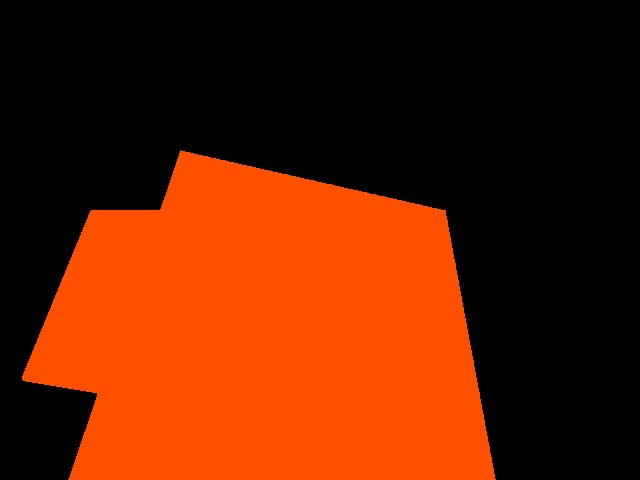
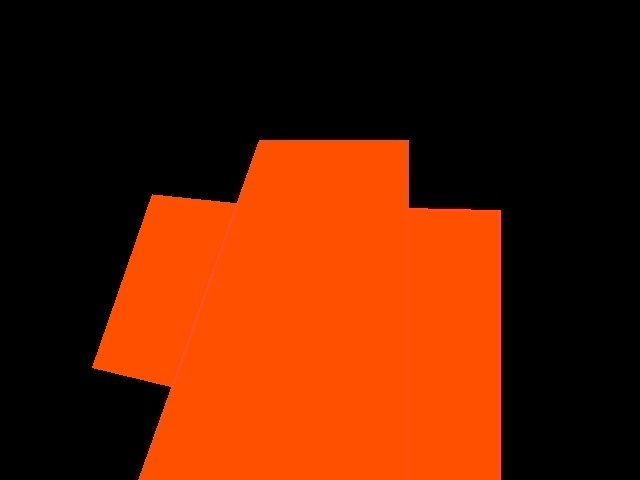
修改mask

Changed region(s): [[0.0312, 0.2812, 0.8125, 1.0]]

diff --git a/utils/create_mask.py b/utils/create_mask.py
@@ -40,6 +40,7 @@ def create_mask(orig_img, lines):
             if x_(y, left[0], left[1]) <= x <= x_(y, right[0], right[1]) and \
                     y_(x, top[0], top[1]) <= y <= y_(x, bottom[0], bottom[1]):
                 mask[y, x, 2] = 255
+                mask[y, x, 1] = 80
     return mask
 
 
@@ -54,6 +55,7 @@ def add_mask(orig_mask, lines):
             if x_(y, left[0], left[1]) <= x <= 500 and \
                     y_(x, top[0], top[1]) <= y <= y_(x, bottom[0], bottom[1]):
                 mask[y, x, 2] = 255
+                mask[y, x, 1] = 80
     return mask
 
 
@@ -65,12 +67,12 @@ def main():
     # bottom = line_params((0, 479), (495, 479))
 
     # sawanini_1
-    orig_img = '../images/records/vlcsnap-2019-09-03-09h50m25s077.png'
-    left = line_params((40, 390), (50, 480))
-    top = line_params((40, 390), (377, 204))
-    right = line_params((377, 204), (540, 330))
-    bottom = line_params((380, 480), (540, 330))
-    mask = create_mask(orig_img, [left, top, right, bottom])
+    # orig_img = '../images/records/vlcsnap-2019-09-03-09h50m25s077.png'
+    # left = line_params((40, 390), (50, 480))
+    # top = line_params((40, 390), (377, 204))
+    # right = line_params((377, 204), (540, 330))
+    # bottom = line_params((380, 480), (540, 330))
+    # mask = create_mask(orig_img, [left, top, right, bottom])
 
     # baobantongyong
     # orig_img = '../images/records/vlcsnap-2019-09-03-09h50m51s942.png'
@@ -80,12 +82,34 @@ def main():
     # bottom = line_params((23, 479), (405, 479))
     # mask = create_mask(orig_img, [left, top, right, bottom])
 
-    # orig_mask = '../images/masks/penfenshang.jpg'
-    # left = line_params((180, 150), (68, 479))
-    # top = line_params((180, 150), (445, 210))
-    # right = line_params((445, 210), (495, 479))
+    # penfenshang
+    # orig_mask = '../images/masks/penfenshang_legacy.jpg'
+    # left = line_params((140, 473), (252, 158))
+    # top = line_params((408, 140), (300, 140))
+    # right = line_params((408, 140), (409, 479))
     # bottom = line_params((65, 479), (490, 479))
+    # mask = create_mask(orig_mask, [left, top, right, bottom])
+
+    orig_mask = '../images/masks/penfenshang.jpg'
+    left = line_params((400, 140), (401, 479))
+    top = line_params((427, 208), (470, 209))
+    right = line_params((526, 206), (565, 479))
+    bottom = line_params((65, 479), (490, 479))
+    mask = add_mask(orig_mask, [left, top, right, bottom])
+
+    # left = line_params((95, 357), (148, 204))
+    # top = line_params((239, 203), (162, 195))
+    # right = line_params((145, 473), (257, 158))
+    # bottom = line_params((160, 384), (98, 369))
     # mask = add_mask(orig_mask, [left, top, right, bottom])
+
+    # zhunajixia
+    # orig_mask = '../images/assets/zhuanjixia1.png'
+    # left = line_params((140, 263), (69, 337))
+    # top = line_params((496, 339), (305, 268))
+    # right = line_params((495, 327), (491, 465))
+    # bottom = line_params((65, 479), (490, 479))
+    # mask = create_mask(orig_mask, [left, top, right, bottom])
 
     # orig_img = '../images/records/vlcsnap-2019-08-02-16h02m31s252.png'
     # left = line_params((100, 175), (45, 385))
@@ -102,7 +126,7 @@ def main():
 
     cv2.imshow('mask', mask)
 
-    cv2.imwrite('../images/masks/sawanini_1.jpg', mask)
+    cv2.imwrite('../images/masks/penfenshang.jpg', mask)
 
     cv2.waitKey(0)
     cv2.destroyAllWindows()

diff --git a/configs/config.py b/configs/config.py
@@ -5,8 +5,8 @@ switch_dict = {
     'sawanini_1': True,
     'sawanini_2': True,
     'zhuanjixia': True,
-    'penfenshang': True,
-    'baobantongyong': True,
+    'penfenshang': False,
+    'baobantongyong': False,
 }
 # 是否连接OPC服务器，执行紧急停机
 open_opc = True
@@ -15,7 +15,7 @@ open_email_warning = True
 # 开启统计闯入次数和邮箱发送报告功能
 open_email_report = True
 # 开启数据库存储异常记录
-open_mysql_save_record = False
+open_mysql_save_record = True
 
 # 视频流 URL
 video_stream_paths_dict = {
